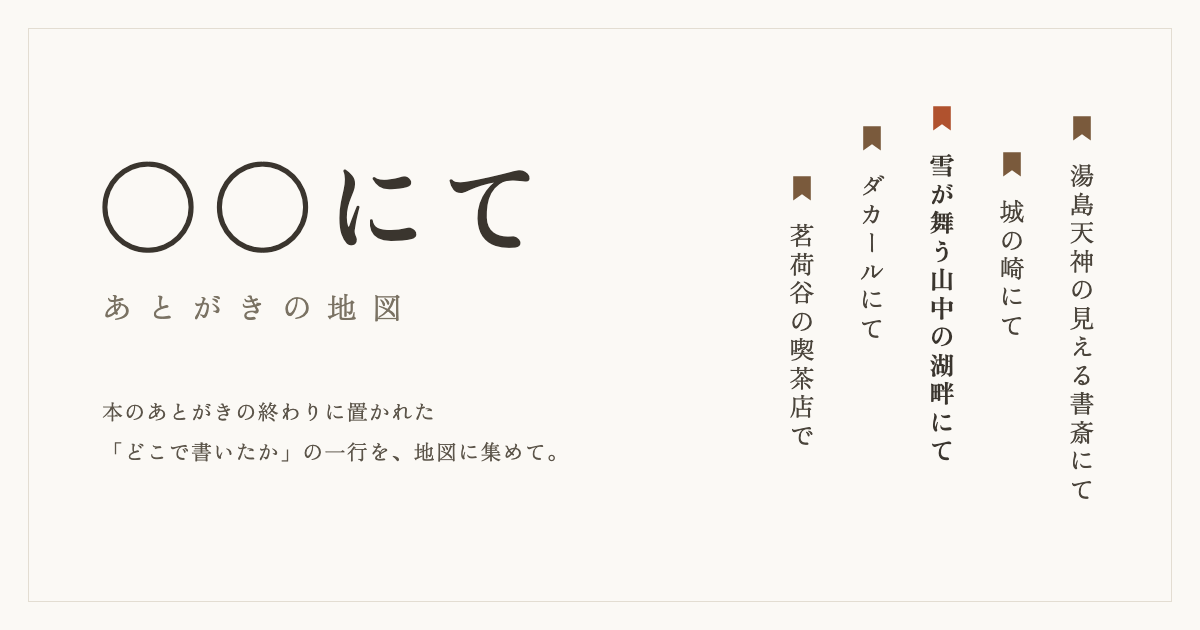
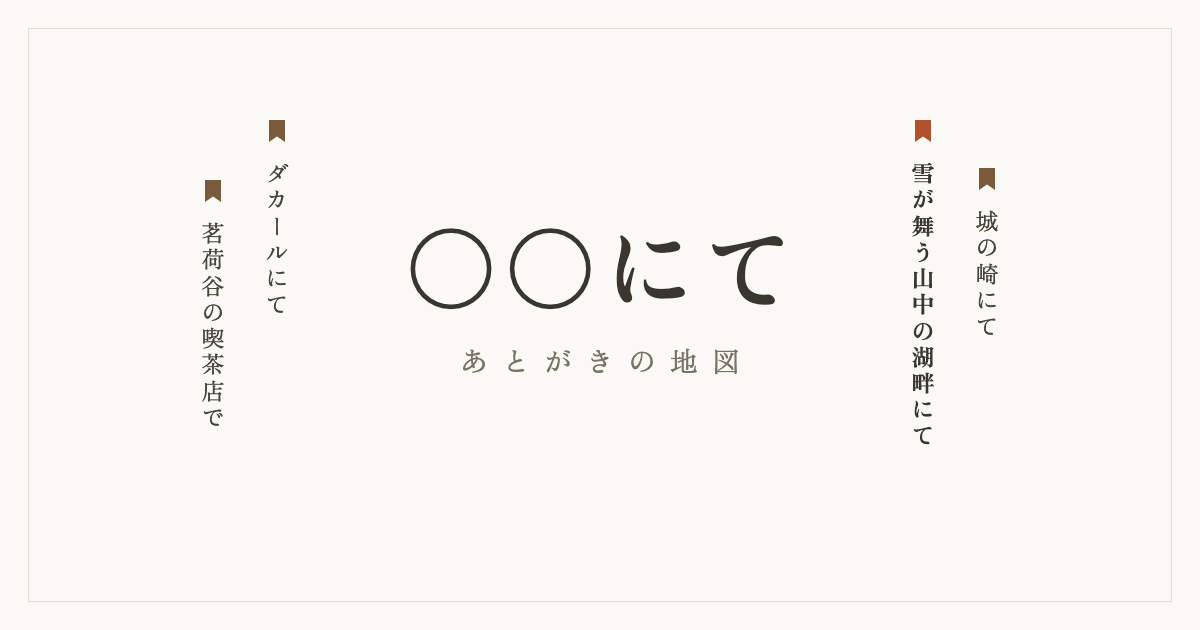
見出し画像を中央寄せに組み直す(切り落とし対策)

diff --git a/design/og.html b/design/og.html
@@ -15,21 +15,23 @@
   /* 紙の縁取り */
   .frame { position: absolute; inset: 28px; border: 1px solid #e3ddd2; }
 
-  .title { position: absolute; left: 96px; top: 150px; }
-  .title h1 { margin: 0; font-size: 104px; font-weight: 700; letter-spacing: .1em; line-height: 1; }
-  .title .sub { margin: 30px 0 0 6px; font-size: 30px; letter-spacing: .5em; color: #7a7263; }
-  .title .lead {
-    margin: 64px 0 0 6px; font-size: 21px; line-height: 1.9; color: #5c554a; letter-spacing: .06em;
+  /* 貼り付け先によっては左右が切り落とされる(正方形に近く切るところもある)ので、
+     題字は中央の正方形(x 285〜915)に収め、栞の行は中央寄りの両脇に置く */
+  .title {
+    position: absolute; left: 0; right: 0; top: 218px; text-align: center;
   }
+  .title h1 { margin: 0; font-size: 92px; font-weight: 700; letter-spacing: .08em; line-height: 1; padding-left: .08em; }
+  .title .sub { margin-top: 30px; font-size: 28px; letter-spacing: .5em; padding-left: .5em; color: #7a7263; }
 
-  /* 栞を挟んだ一行を縦書きで吊るす */
-  .lines { position: absolute; right: 100px; top: 104px; display: flex; gap: 34px; }
+  .lines { position: absolute; top: 118px; display: flex; gap: 30px; }
+  .lines.l { left: 196px; }
+  .lines.r { right: 196px; }
   .line { display: flex; flex-direction: column; align-items: center; }
-  .line svg { width: 22px; height: 33px; color: #7a5a3c; }
+  .line svg { width: 20px; height: 30px; color: #7a5a3c; }
   .line.sel svg { color: #b0522e; }
   .line span {
-    writing-mode: vertical-rl; margin-top: 16px;
-    font-size: 25px; letter-spacing: .14em; color: #4a443b;
+    writing-mode: vertical-rl; margin-top: 14px;
+    font-size: 23px; letter-spacing: .14em; color: #4a443b;
   }
   .line.sel span { color: #3a352e; font-weight: 700; }
 </style>
@@ -37,18 +39,19 @@
 <body>
   <div class="frame"></div>
 
+  <div class="lines l">
+    <div class="line" style="margin-top:60px"><svg viewBox="0 0 12 18"><path d="M1.2 1.2 h9.6 v13.2 l-4.8 -3.3 l-4.8 3.3 z" fill="currentColor"/></svg><span>茗荷谷の喫茶店で</span></div>
+    <div class="line" style="margin-top:0px"><svg viewBox="0 0 12 18"><path d="M1.2 1.2 h9.6 v13.2 l-4.8 -3.3 l-4.8 3.3 z" fill="currentColor"/></svg><span>ダカールにて</span></div>
+  </div>
+
   <div class="title">
     <h1>〇〇にて</h1>
     <div class="sub">あとがきの地図</div>
-    <div class="lead">本のあとがきの終わりに置かれた<br>「どこで書いたか」の一行を、地図に集めて。</div>
   </div>
 
-  <div class="lines">
-    <div class="line" style="margin-top:70px"><svg viewBox="0 0 12 18"><path d="M1.2 1.2 h9.6 v13.2 l-4.8 -3.3 l-4.8 3.3 z" fill="currentColor"/></svg><span>茗荷谷の喫茶店で</span></div>
-    <div class="line" style="margin-top:20px"><svg viewBox="0 0 12 18"><path d="M1.2 1.2 h9.6 v13.2 l-4.8 -3.3 l-4.8 3.3 z" fill="currentColor"/></svg><span>ダカールにて</span></div>
-    <div class="line sel" style="margin-top:0"><svg viewBox="0 0 12 18"><path d="M1.2 1.2 h9.6 v13.2 l-4.8 -3.3 l-4.8 3.3 z" fill="currentColor"/></svg><span>雪が舞う山中の湖畔にて</span></div>
-    <div class="line" style="margin-top:46px"><svg viewBox="0 0 12 18"><path d="M1.2 1.2 h9.6 v13.2 l-4.8 -3.3 l-4.8 3.3 z" fill="currentColor"/></svg><span>城の崎にて</span></div>
-    <div class="line" style="margin-top:10px"><svg viewBox="0 0 12 18"><path d="M1.2 1.2 h9.6 v13.2 l-4.8 -3.3 l-4.8 3.3 z" fill="currentColor"/></svg><span>湯島天神の見える書斎にて</span></div>
+  <div class="lines r">
+    <div class="line sel" style="margin-top:0px"><svg viewBox="0 0 12 18"><path d="M1.2 1.2 h9.6 v13.2 l-4.8 -3.3 l-4.8 3.3 z" fill="currentColor"/></svg><span>雪が舞う山中の湖畔にて</span></div>
+    <div class="line" style="margin-top:48px"><svg viewBox="0 0 12 18"><path d="M1.2 1.2 h9.6 v13.2 l-4.8 -3.3 l-4.8 3.3 z" fill="currentColor"/></svg><span>城の崎にて</span></div>
   </div>
 </body>
 </html>

diff --git a/prototype/index.html b/prototype/index.html
@@ -11,7 +11,7 @@
 <meta property="og:title" content="〇〇にて — あとがきの地図">
 <meta property="og:description" content="本のあとがきの終わりに置かれた「どこで書いたか」の一行を、地図に集めて。">
 <meta property="og:url" content="https://shirai-aka.github.io/nite-map/">
-<meta property="og:image" content="https://shirai-aka.github.io/nite-map/og.png">
+<meta property="og:image" content="https://shirai-aka.github.io/nite-map/og.png?v=2">
 <meta property="og:image:width" content="1200">
 <meta property="og:image:height" content="630">
 <meta property="og:locale" content="ja_JP">
